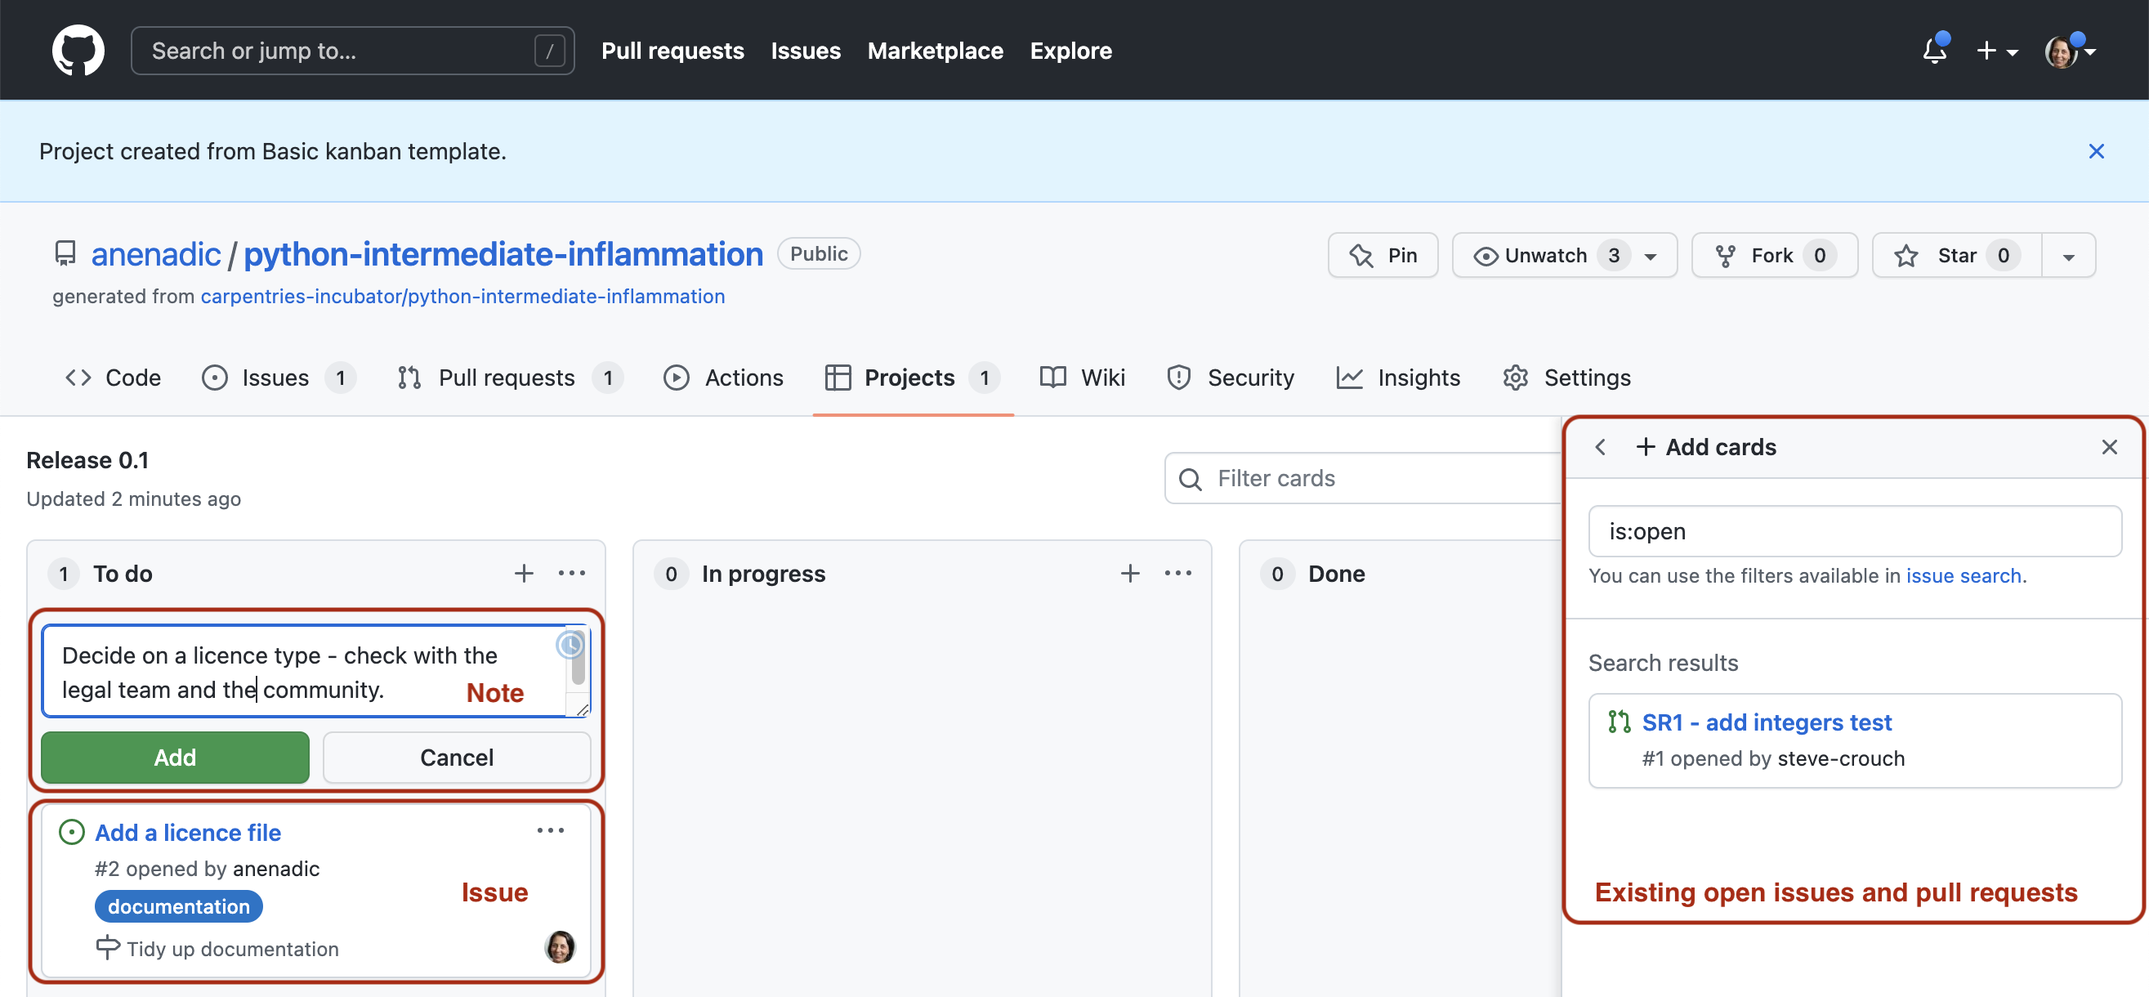
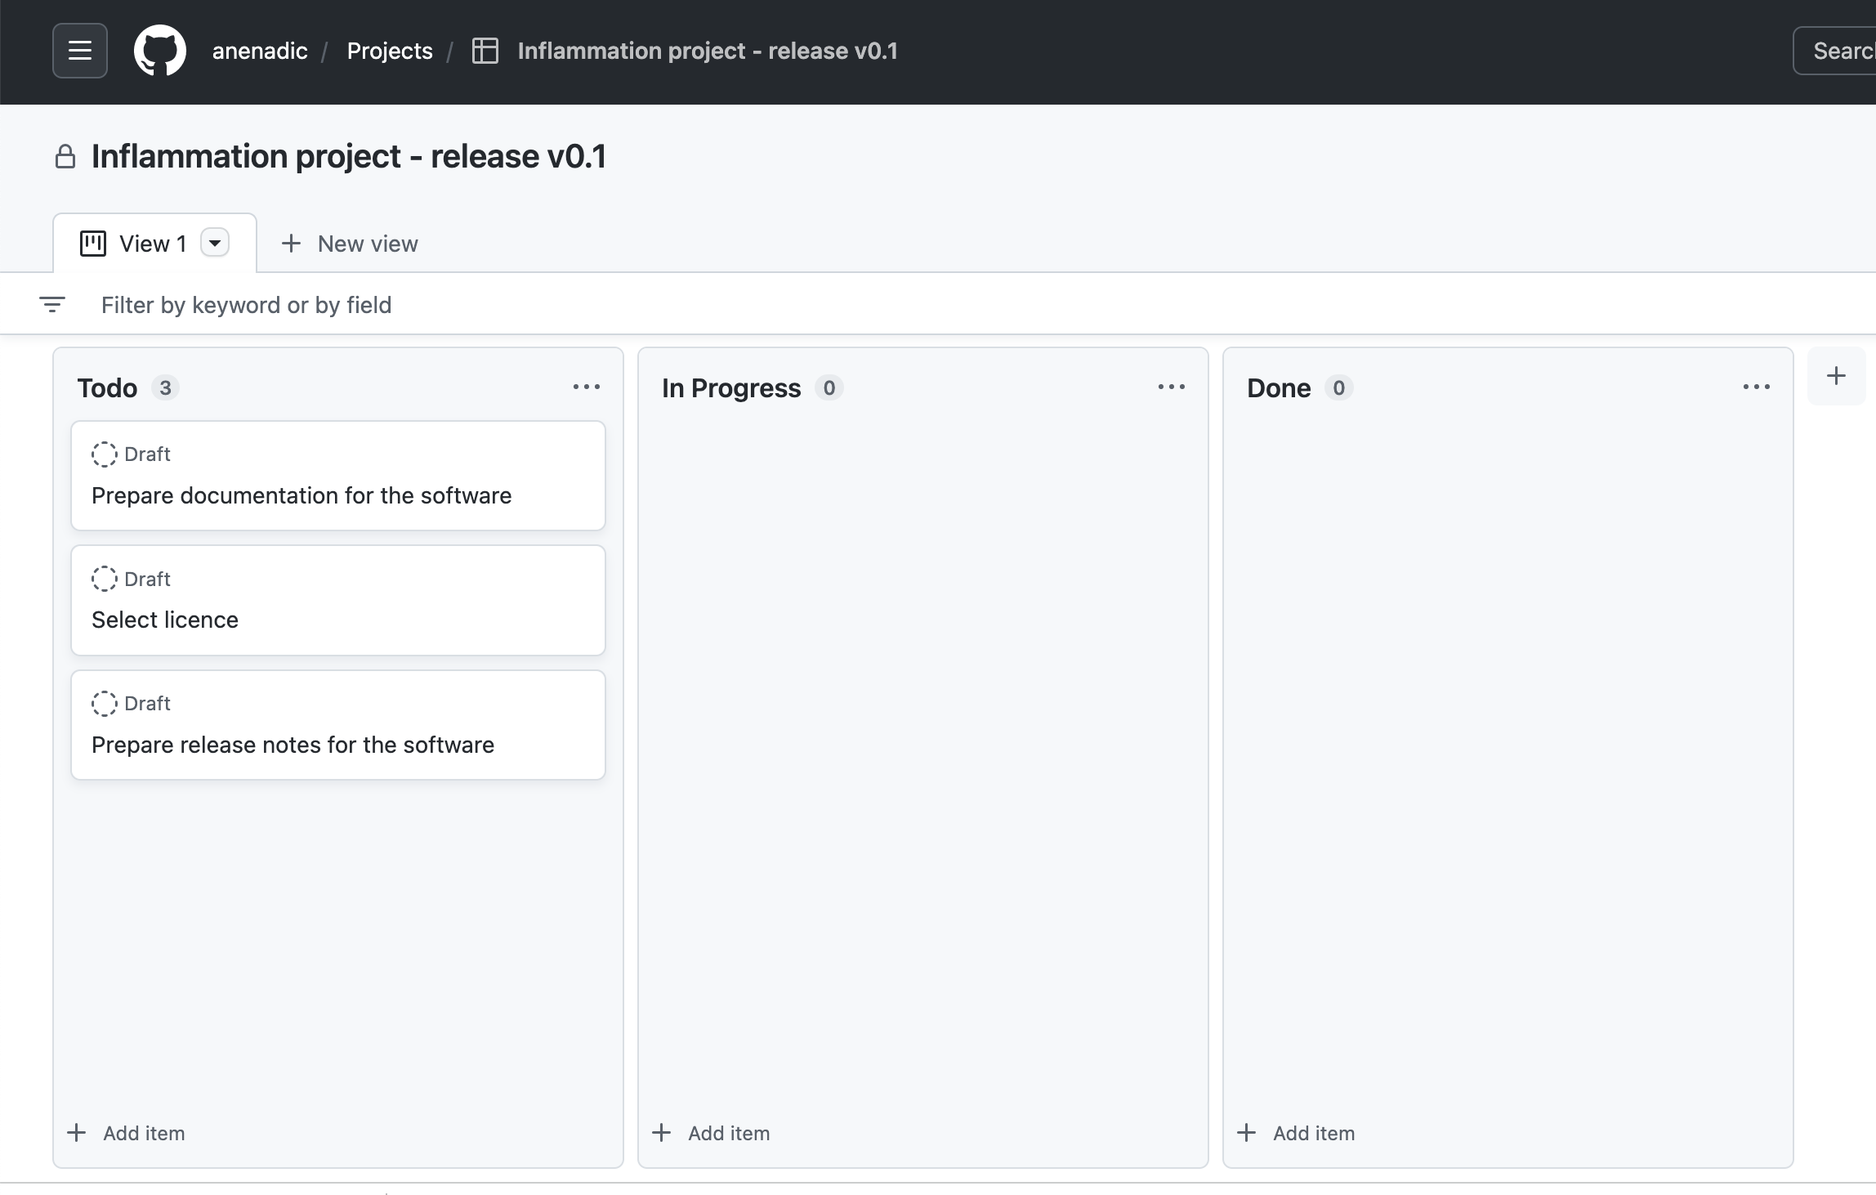
Initial changed to the first 3 episodes

diff --git a/episodes/51-managing-software.md b/episodes/51-managing-software.md
@@ -49,7 +49,7 @@ Let's go through the process of creating a new issue. Start by clicking the `New
 When you create an issue, you can add a range of details to them. They can be *assigned to a specific developer* for example - this can be a helpful way to know who, if anyone, is currently working to fix the issue, or a way to assign 
 responsibility to someone to deal with it.
 
-They can also be assigned a *label*. The labels available for issues can be customised, and given a colour, allowing you to see at a glance the state of your code's issues. The default labels available in GitHub include:
+They can also be assigned a *label*. The labels available for issues can be customised, and given a colour, allowing you to see at a glance the state of your code's issues. The [default labels available in GitHub](https://docs.github.com/en/issues/using-labels-and-milestones-to-track-work/managing-labels) include:
 
 - `bug` - indicates an unexpected problem or unintended behavior
 - `documentation` - indicates a need for improvements or additions to documentation
@@ -61,18 +61,20 @@ They can also be assigned a *label*. The labels available for issues can be cust
 - `question` - indicates that an issue, pull request, or discussion needs more information
 - `wontfix` - indicates that work won't continue on an issue, pull request, or discussion
 
-Check the [GitHub documentaiton on Issues](https://docs.github.com/en/issues/using-labels-and-milestones-to-track-work/managing-labels) for the full reference.
 You can also create your own custom labels to help with classifying issues. There are no rules really about naming the labels - use whatever makes sense for your project. Some conventional custom labels include: `status:in progress` (to indicate that someone started working on the issue), `status:blocked` (to indicate that the progress on addressing issue is blocked by another issue or activity), etc.
 
 As well as highlighting problems, the `bug` label can make code much more usable by allowing users to find out if anyone has had the same problem before, and also how to fix (or work around) it on their end. Enabling users to solve their own problems can save you a lot of time. In general, a good bug report should contain only one bug, specific details of the environment in which the issue appeared (e.g. operating system or browser, version of the software and its dependencies), and sufficiently clear and concise steps that allow a developer to reproduce the bug themselves. They should also be clear on what the bug reporter considers factual ("I did this and this happened") and speculation ("I think it was caused by this"). If an error report was generated from the software itself, it's a very good idea to include that in the issue.
 
 The `enhancement` label is a great way to communicate your future priorities to your collaborators but also to yourself - it’s far too easy to leave a software project for a few months to work on something else, only to come back and forget the improvements you were going to make. If you have other users for your code, they can use the label to request new features, or changes to the way the code operates. It’s generally worth paying attention to these suggestions, especially if you spend more time developing than running the code. It can be very easy to end up with quirky behaviour because of off-the-cuff choices during development. Extra pairs of eyes can point out ways the code can be made more accessible - the easier the code is to use, the more widely it will be adopted and the greater impact it will have.
 
-> ## Wontfix
->
-> One interesting label is `wontfix`, which indicates that an issue simply won't be worked on for whatever reason. Maybe the bug it reports is outside of the use case of the software, or the feature it requests simply isn't a priority.
->
-> The **Lock issue** and **Pin issue** buttons allow you to block future comments on an issue, and pin it to the top of the issues page. This can make it clear you've thought about an issue and dismissed it!
+One interesting label is `wontfix`, which indicates that an issue simply won't be worked on for whatever reason. Maybe the bug it reports is outside of the use case of the software, or the feature it requests simply isn't a priority. This can make it clear 
+you've thought about an issue and dismissed it.
+
+> ## Locking and Pinning Issues
+> The **Lock conversation** and **Pin issue** buttons are both available from individual issue pages. 
+> Locking conversations allows you to block future comments on the issue, e.g. if the conversation around the issue 
+> is not constructive or violates your team's code of conduct. Pinning issues allows you to pin up to three 
+> issues to the top of the issues page, e.g. to emphasise their importance.
 {: .callout}
 
 > ## Manage Issues With Your Code Openly
@@ -80,7 +82,6 @@ The `enhancement` label is a great way to communicate your future priorities to 
 {: .testimonial}
 
 > ## Exercise: Our First Issue!
->
 > Individually, with a critical eye, think of an aspect of the code you have developed so far that needs improvement. 
 > It could be a bug, for example, or a documentation issue with your README, a missing LICENSE file, or an enhancement. 
 > In GitHub, enter the details of the issue and select `Submit new issue`. Add a label to your issue, if appropriate.
@@ -99,25 +100,30 @@ that is clear, helpful and provides enough information for maintainers to act up
 (without going back and forth to extract it). GitHub provides a range of default templates, 
 but you can also [write your own](https://docs.github.com/en/communities/using-templates-to-encourage-useful-issues-and-pull-requests/configuring-issue-templates-for-your-repository).
 
-## Team Communication Using GitHub's Notifications
+## Using GitHub's Notifications & Referencing System to Communicate
 
 GitHub implements a comprehensive [notifications system](https://docs.github.com/en/account-and-profile/managing-subscriptions-and-notifications-on-github/setting-up-notifications/configuring-notifications) 
 to keep the team up-to-date with activities in your code repository and notify you when something happens or changes 
 in your software project. You can choose whether to watch or unwatch an individual repository,
 or can choose to only be notified of certain event types such as updates to issues, pull requests, direct mentions, 
-etc. GitHub also provides an additional useful notification feature for collaborative work - **Mentions**.
+etc. GitHub also provides an additional useful notification feature for collaborative work - **Mentions**. 
+In addition to referencing team members (which will result in an appropriate notification), GitHub allows us 
+to reference issues, pull requests and comments from one another - providing a useful way of connecting things 
+and conversations in your project.
 
-### GitHub's Mentions
+### Referencing Team Members Using Mentions
 
 The mention system notifies team members when somebody else references them in an issue,
 comment or pull request - you can use this to notify people when you want to check a detail with them,
 or let them know something has been fixed or changed (much easier than writing out all the same information
-again in an email!). 
+again in an email).  
 
 You can use the mention system to link to/notify an individual GitHub account or a whole team
 for notifying multiple people. Typing <kbd>@</kbd> in GitHub will bring up a list of all accounts and teams linked
 to the repository that can be "mentioned". People will then receive notifications based on their preferred notification
 methods - e.g. via email or GitHub's User Interface.
+
+### Referencing Issues, Pull Requests and Comments 
 
 GitHub also lets you mention/reference one issue or pull request from another (and people "watching" these will be notified
 of any such updates). Whilst writing the description of an issue, or commenting on one,
@@ -137,9 +143,21 @@ and GitHub will render it nicely using the identifier's short form and link to t
 
 ![Referencing comments and commits in GitHub](../fig/github-reference-comments-commits.png){: .image-with-shadow width="700px"}
 
-> ## You Are a User
+> ## Exercise: Our First Mention/Reference!
+> Add a mention to one of your team members using the `@` notation 
+> in a comment within an issue or a pull request in your repository - e.g. to 
+> ask them a question or a clarification on something or to do some additional work. 
+> 
+> Alternatively, add another issue to your repository and reference the issue you created in the previous exercise using the 
+> `#` notation.
+> 
+> Time: 5 mins
+{: .challenge}
+
+> ## You Are Also a User of Your Code
 >
-> This section focuses a lot on how issues can help communicate the current state of the code to others. As a sole developer, and possibly also the only user of the code, you might be tempted to not bother with recording issues and new features as you don't need to communicate the information to anyone else.
+> This section focuses a lot on how issues and mentions can help communicate the current state of the code to others and 
+> document what conversations were held around particular issues. As a sole developer, and possibly also the only user of the code, you might be tempted to not bother with recording issues, comments and new features as you don't need to communicate the information to anyone else.
 >
 > Unfortunately, human memory isn't infallible! After spending six months on a different topic, it's inevitable you'll forget some of the plans you had and problems you faced. Not documenting these things can lead to you having to re-learn things you already put the effort into discovering before. Also, if others are brought on to the project at a later date, the software's existing issues and potential new features are already in place to build upon.
 {: .callout}
@@ -150,26 +168,22 @@ representation of tasks and may not be as suitable for higher-level project mana
 prioritising tasks for future development, planning sprints and releases. Luckily, 
 GitHub provides two project management tools for this purpose - **Milestones** and **Project Boards**.
 
-Both Milestones and Project Boards implement an agile development and project management system. 
-Milestones are good for [scrum-style project development and management](https://www.atlassian.com/agile/scrum) - 
-i.e. timeboxed, structured iterations and working in short sprints on batches of issues. Project Boards implement 
-a [Kanban methodology](https://www.atlassian.com/agile/kanban) - 
-good for managing continuous delivery and steady flow of work in a project. 
-
-Both Project Boards and Milestones are a way of organising issues into smaller "sub-projects" (i.e. 
-smaller than the "project" represented by the whole repository). When should you use one over the other? 
+Both Project Boards and Milestones provide [agile development and project management systems](https://www.atlassian.com/agile) 
+and ways of organising issues into smaller "sub-projects" (i.e. 
+smaller than the "project" represented by the whole repository).
 Project Boards provide a way of visualising and organising the work on an higher level (e.g. more suitable for 
-project management tasks) and are not timeboxed (i.e. time-bound). Milestones are a way to 
+project management tasks) and are not time-bound. Milestones are a way to 
 organise lower-level tasks that have deadlines and progress of which needs to be closely tracked 
 (e.g. release and version management). How you organise and partition your project work is up to you and the size 
 of your project. For example, you could create a project per 
 milestone or have several milestones in a single project, or split milestones into shorter sprints. 
-For a good description of differences between the two, have a look at [this answer on StackOverflow](https://stackoverflow.com/questions/39591795/what-is-the-difference-relationship-between-github-projects-and-milestones). 
+For a good description of differences between project boards and milestones and suggestions on 
+when should you use one over the other - have a look at [this answer on StackOverflow](https://stackoverflow.com/questions/39591795/what-is-the-difference-relationship-between-github-projects-and-milestones). 
 We will see Milestones in action soon when we work with our team on a mini sprint - 
 for now, let's have a brief look at Project Boards.
 
 ### Project Boards
-A Project Board (or Kanban board, from the Japanese word for 'card') uses columns and cards to keep track of tasks. 
+A Project Board (or Kanban board, from the Japanese word for 'card') typically uses columns and cards to keep track of tasks (although GitHub now also provides a table view over a project board). 
 You break down your project into smaller sub-projects, which in turn are split 
 into tasks which you write on cards, then move the cards between columns that describe the status of each task. 
 Cards are usually small, descriptive and self-contained tasks that build on each other. Breaking a project 
@@ -177,51 +191,61 @@ down into clearly-defined tasks makes it a lot easier to manage. GitHub project 
 the other features of the site such as issues and pull requests - cards can be added to track the progress of such 
 tasks and automatically moved between columns based on their progress or status.
 
-GitHub provides several template boards to get you started. Let's use a "Basic Kanban" template 
-that by default contain the following three columns with pretty self-explanatory names:
+Project boards in GitHub are now created on user or organisation level, i.e. they can span all repositories owned by a user or organisation in GitHub and are not a repository-level feature any more.
 
-- `To Do`
-- `In Progress`
-- `Done`
+To create a project board in GitHub, follow the next steps.
 
-1. To do so, from the Project tab of your repository, select "Projects" on the left, then click the `New project` 
-button on the right.
+1. From your GitHub account's home page (i.e. not your repository's home page!), select the "Projects" tab, then click the `New project` button on the right.
 
     ![Adding a new project board in GitHub](../fig/github-new-board.png){: .image-with-shadow width="1000px"}
 
-2. In the form, populate the name and the description of the project - e.g. "Release 0.1" and "Tasks for planning 
-and delivering 0.1 release of our software", respectively. From the template drop-down, select "Basic Kanban".
+2. In the "Select a template" pop-up, select "Board". This will give you a classic "card board" view of the project.
 
-    ![Creating a project board in GitHub](../fig/github-create-board.png){: .image-with-shadow width="1000px"}
+    ![Selecting a project board template in GitHub](../fig/github-board-template.png){: .image-with-shadow width="600px"}
 
-    Note that, regardless of which board template you choose now, you can always add or remove columns from 
-    your project board later on to suit your use case.
- 
-3. You can now add new notes or existing issues and pull requests 
-(which can be seen and filtered on the right and drag-and-dropped) to create cards in your board. 
-Notes on a project board serve as task reminders or to add information related to the project board.
+3. GitHub will create an unnamed project board for you. You should populate the name and the description of the project from the project's Settings.
+
+   ![Project board setting in GitHub](../fig/github-board-settings.png){: .image-with-shadow width="1000px"}
+
+4. We will use "Inflammation project - release v0.1" and "Tasks for the v0.1 release of the inflammation project" for the name and description of our project, respectively. You can use anything that suits your project.
+
+   ![Naming a project in GitHub](../fig/github-name-board.png){: .image-with-shadow width="1000px"}
+
+5. GitHub's default card board template contains the following three columns with pretty self-explanatory names:
+
+   - `To Do`
+   - `In Progress`
+   - `Done`
+
+   ![Default card board in GitHub](../fig/github-default-board.png){: .image-with-shadow width="1000px"}
+
+    You can add or remove columns from your project board to suit your use case. One commonly seen extra 
+    column is `On hold` or `Waiting` - if you have tasks that get held up by waiting on other people (e.g. to respond to your questions) then moving them to a separate column makes their current state clearer.
+    
+    To add a new column, press the 
+    `+` button on the right; to remove a column select the `...` button in the top right corner 
+    of the column itself and then the `Delete column` option.
+
+6. You can now add new items (cards) to columns by pressing the `+ Add item` button at the bottom of each column. Cards can be simple text notes which you type into the `+ Add item` box and pres `Enter` when finished. Cards can also be (links to) existing issues and pull requests, which can be filtered out from the `+ Add item` box by pressing `#` (to activate GitHub's referencing mechanism) and selecting the repository and an issue or pull request from that repository that you want to add. 
 
     ![Adding issues and notes to a project board in GitHub](../fig/github-board-add-note.png){: .image-with-shadow width="1000px"}
 
     Notes contain task descriptions and can have detailed content like checklists. In some cases, e.g. if a note becomes 
     too complex, you may want to convert it into an issue so you can add labels, assign them to team members or 
     write more detailed comments (for that, use the `Convert to issue`
-    option from the `...` menu on the note). Sometimes, a card you thought was simple and self-contained might turn out to
-    be a bigger task than you thought. In that case, it might be sensible to create new cards that reference the one 
-    they broke off from (for that, use the `Copy card link` option from the `...` menu on the card).
+    option from the `...` menu on the card).
+    
+   ![Coverting a note to issue](../fig/github-convert-note-to-issue.png){: .image-with-shadow width="1000px"}
 
-You can drag a card to `In Progress` column to indicate that you are working on it. Issues and pull requests on cards 
-will automatically be moved to the `Done` column for you when you close the issue or merge the pull request. 
-One common extra column that is typically seen is `On hold` or `Waiting` (you can add additional columns yourself). 
-If you have tasks that get held up by waiting on other people (e.g. to respond to your questions) then moving them 
-to a separate column makes their current state clearer.
+7. You can drag a card to `In Progress` column to indicate that you are working on it. Issues and pull requests on cards 
+will automatically be moved to the `Done` column for you when you close the issue or merge the pull request.
 
 > ## Exercise: Working With Project Boards
-> Play around with a project board - practice adding and closing 
+> Play around with your project board - practice adding and closing 
 > notes and cards, adding and removing columns, creating issues from cards or adding a card from an open issue, 
 > closing issues, etc.
 > 
-> Time: 5 mins
+> Time: 10 mins
 {: .challenge}
 
 > ## Prioritisation With Project Boards

diff --git a/episodes/50-section5-intro.md b/episodes/50-section5-intro.md
@@ -30,9 +30,9 @@ improvement in response to feedback.
 
 In this section we will:
 
-- Learn how to **track issues with our software** registered by ourselves and external users.
-- Learn how to **communicate within the team** on software development tasks effectively and efficiently.
-- Learn how to use GitHub's **Project Boards** and **Milestones** for project planning and management.
+- Use GitHub to **track issues with our software** registered by ourselves and external users.
+- Use GitHub's **Mentions** and notifications system to effectively **communicate within the team** on software development tasks.
+- Use GitHub's **Project Boards** and **Milestones** for project planning and management.
 - Learn to manage the **improvement of our software through feedback** using **agile** management techniques. 
 - Employ **effort estimation** of development tasks as a foundational tool for prioritising future team work, 
 and use the **MoSCoW approach** and software development **sprints** to manage improvement. As we will see, it is very 

diff --git a/episodes/52-assessing-software-suitability-improvement.md b/episodes/52-assessing-software-suitability-improvement.md
@@ -24,7 +24,7 @@ software against suitability criteria will help you adopt the same attitude when
 
 ## Assessing Software for Suitability
 
-> ## Exercise: Decide on your Group's Repository!
+> ## Exercise: Decide on Your Group's Repository!
 >
 > You all have your code repositories you have been working on throughout the course so far. For the upcoming exercise, groups will exchange repositories and review the code of the repository they inherit, and provide feedback.
 >
